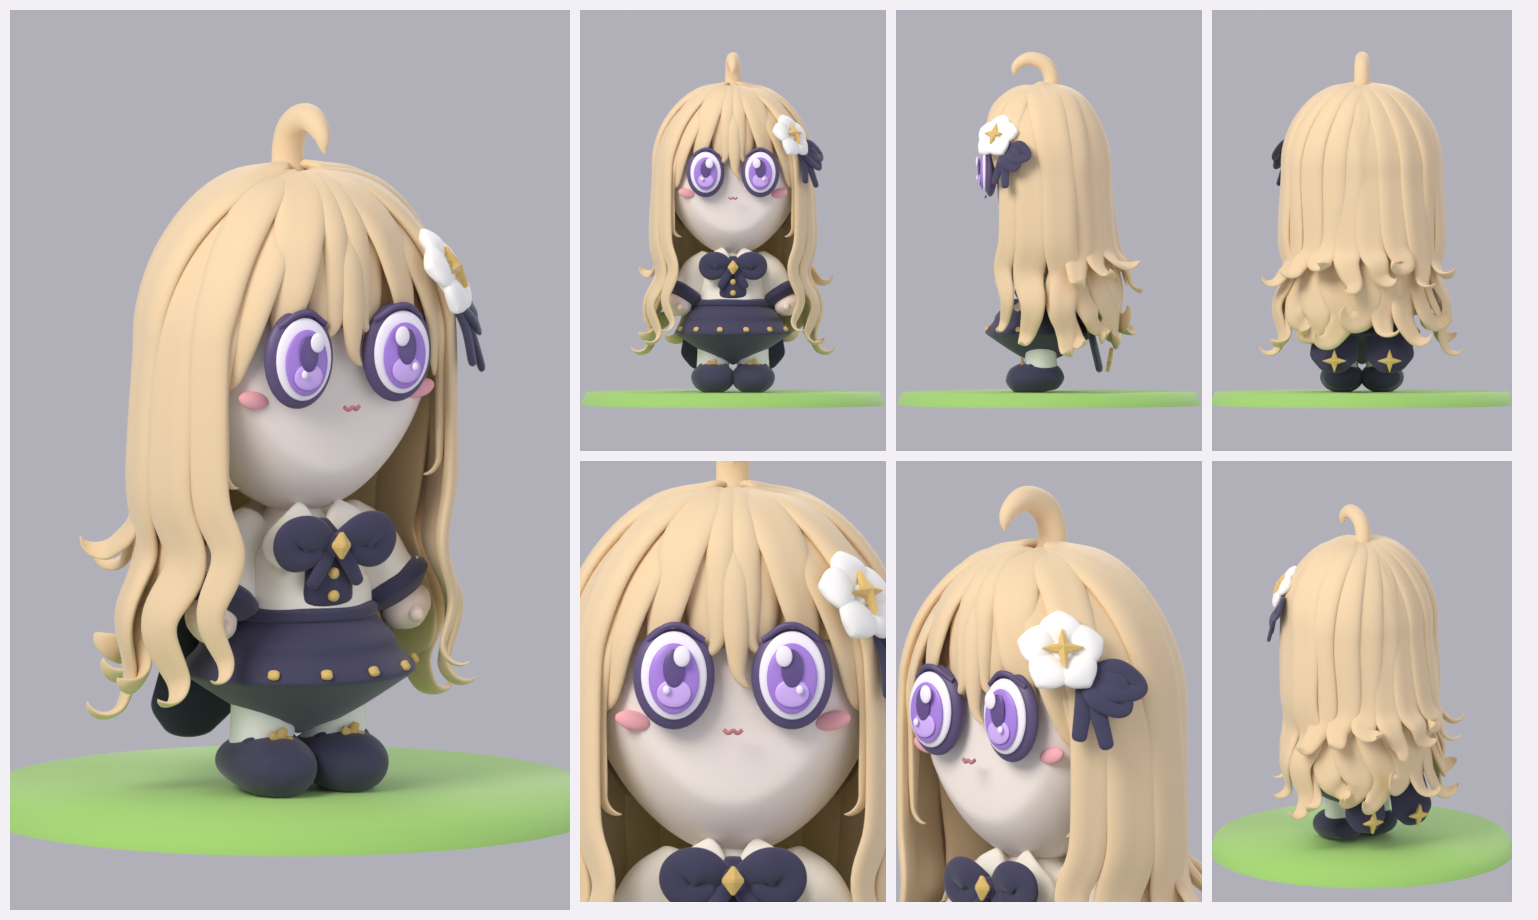
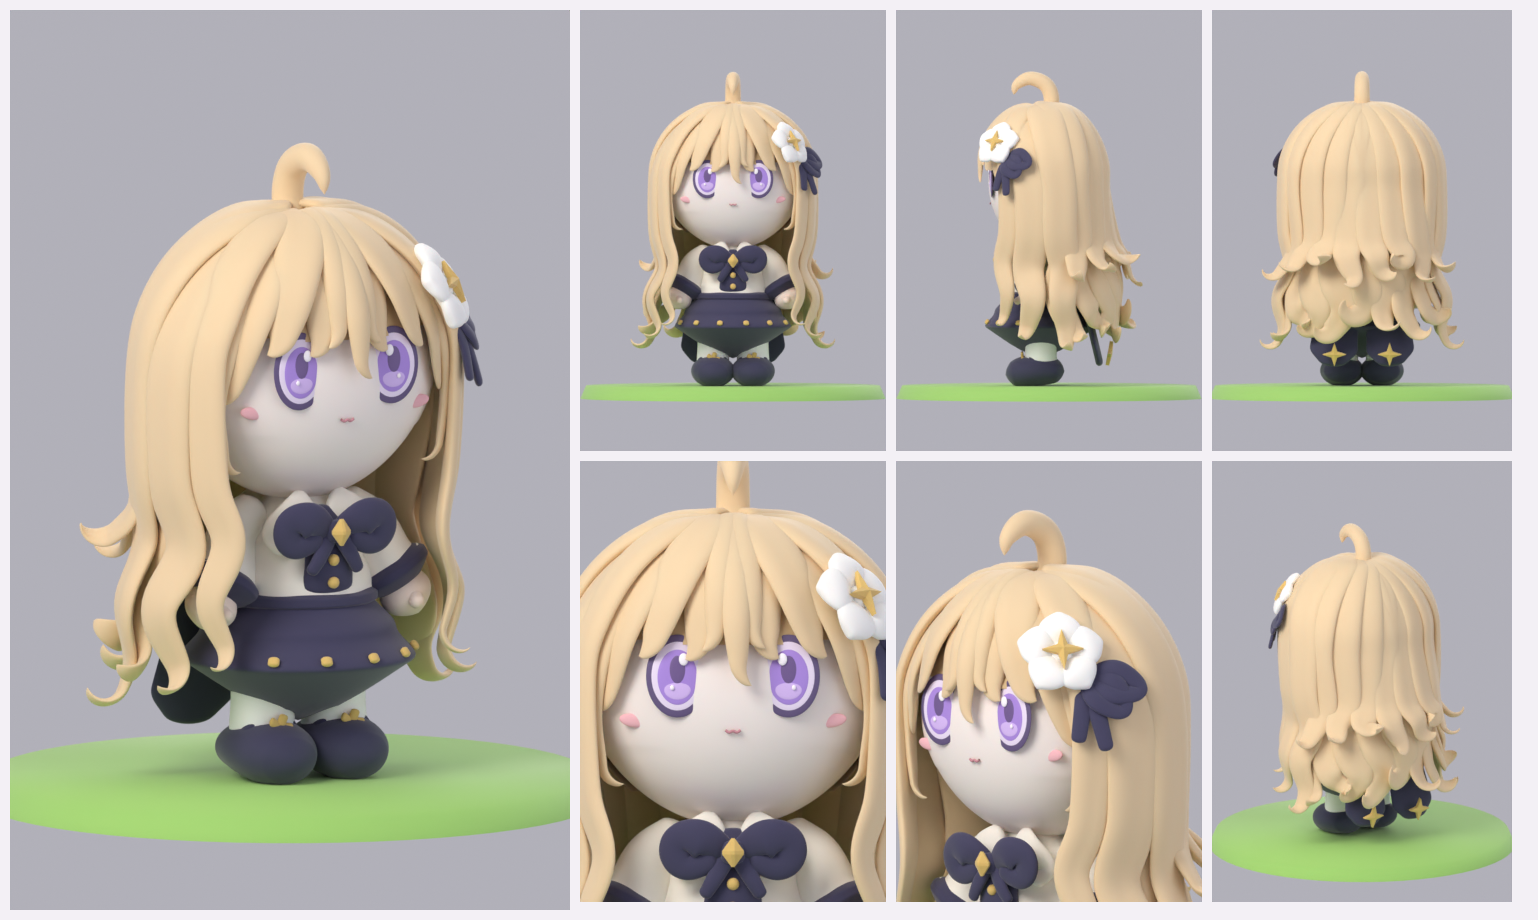
기준 두상을 사용자 제공 v2 스크립트로 교체, 헤어·의상 재결합
Claude-Session: https://claude.ai/code/session_013vYkAwcZjb4s3cxt5sEN9t

diff --git a/tools/3d/blender/head_base_v2.py b/tools/3d/blender/head_base_v2.py
@@ -1,0 +1,227 @@
+# Blender Python API — revised chibi clay head + face
+# Character faces toward -Y. Z is up.
+# This revision shortens the head, rounds the jaw, and embeds facial features
+# closer to the head surface to avoid the "eyes glued onto an egg" appearance.
+
+import bpy
+import math
+
+# ------------------------- PARAMETERS -------------------------
+HEAD_CENTER = (0.0, 0.0, 2.0)
+# Wider and shorter than v1: less egg-shaped, more chibi.
+HEAD_RADIUS = (0.86, 0.64, 0.82)
+HEAD_SEGMENTS = 128
+HEAD_RINGS = 96
+
+SKIN = (0.91, 0.83, 0.79, 1.0)
+DARK = (0.12, 0.085, 0.20, 1.0)
+EYE_BASE = (0.83, 0.73, 0.91, 1.0)
+IRIS = (0.40, 0.25, 0.72, 1.0)
+IRIS_LIGHT = (0.65, 0.48, 0.88, 1.0)
+PUPIL = (0.16, 0.10, 0.27, 1.0)
+WHITE = (0.98, 0.94, 1.0, 1.0)
+BLUSH = (0.88, 0.48, 0.52, 1.0)
+MOUTH = (0.55, 0.25, 0.29, 1.0)
+
+EYE_X = 0.315
+EYE_Z = 2.045
+EYE_W = 0.165
+EYE_H = 0.218
+# Very shallow depth: facial layers sit close to the skin.
+EYE_D = 0.026
+CHEEK_X = 0.565
+CHEEK_Z = 1.79
+
+# ------------------------- COLLECTION -------------------------
+COL_NAME = "CHIBI_HEAD_FACE_V2"
+col = bpy.data.collections.get(COL_NAME)
+if col is None:
+    col = bpy.data.collections.new(COL_NAME)
+    bpy.context.scene.collection.children.link(col)
+
+# Remove only objects from this script's collection, so rerunning is safe.
+for ob in list(col.objects):
+    bpy.data.objects.remove(ob, do_unlink=True)
+
+def move_to_col(obj):
+    for c in list(obj.users_collection):
+        c.objects.unlink(obj)
+    col.objects.link(obj)
+    return obj
+
+def material(name, color, roughness=0.8, subsurface=0.04):
+    mat = bpy.data.materials.get(name)
+    if mat is None:
+        mat = bpy.data.materials.new(name)
+    mat.diffuse_color = color
+    mat.use_nodes = True
+    bsdf = mat.node_tree.nodes.get("Principled BSDF")
+    bsdf.inputs["Base Color"].default_value = color
+    bsdf.inputs["Roughness"].default_value = roughness
+    if "Subsurface Weight" in bsdf.inputs:
+        bsdf.inputs["Subsurface Weight"].default_value = subsurface
+    return mat
+
+M_SKIN = material("V2_Clay_Skin", SKIN, 0.86, 0.07)
+M_DARK = material("V2_Eye_Deep_Plum", DARK, 0.58, 0.0)
+M_EYE = material("V2_Eye_Lavender", EYE_BASE, 0.52, 0.0)
+M_IRIS = material("V2_Iris_Purple", IRIS, 0.48, 0.0)
+M_IRIS_LIGHT = material("V2_Iris_Light", IRIS_LIGHT, 0.5, 0.0)
+M_PUPIL = material("V2_Pupil", PUPIL, 0.48, 0.0)
+M_WHITE = material("V2_Highlight", WHITE, 0.5, 0.0)
+M_BLUSH = material("V2_Blush", BLUSH, 0.9, 0.02)
+M_MOUTH = material("V2_Mouth", MOUTH, 0.82, 0.0)
+
+def uv_sphere(name, loc, scale, mat, seg=64, rings=40):
+    bpy.ops.mesh.primitive_uv_sphere_add(
+        segments=seg, ring_count=rings, radius=1.0, location=loc
+    )
+    ob = bpy.context.object
+    ob.name = name
+    ob.scale = scale
+    bpy.ops.object.transform_apply(location=False, rotation=False, scale=True)
+    for p in ob.data.polygons:
+        p.use_smooth = True
+    ob.data.materials.append(mat)
+    move_to_col(ob)
+    return ob
+
+def face_y(x, z):
+    # Ellipsoid front surface, with a slight allowance for the softened jaw.
+    rx, ry, rz = HEAD_RADIUS
+    cx, cy, cz = HEAD_CENTER
+    q = 1.0 - ((x-cx)/rx)**2 - ((z-cz)/rz)**2
+    return cy - ry * math.sqrt(max(0.08, q))
+
+def curve(name, points, bevel, mat):
+    data = bpy.data.curves.new(name, "CURVE")
+    data.dimensions = "3D"
+    data.resolution_u = 24
+    data.bevel_depth = bevel
+    data.bevel_resolution = 6
+    sp = data.splines.new("BEZIER")
+    sp.bezier_points.add(len(points)-1)
+    for bp, p in zip(sp.bezier_points, points):
+        bp.co = p
+        bp.handle_left_type = "AUTO"
+        bp.handle_right_type = "AUTO"
+    ob = bpy.data.objects.new(name, data)
+    col.objects.link(ob)
+    ob.data.materials.append(mat)
+    return ob
+
+# ------------------------- HEAD SHAPE -------------------------
+bpy.ops.mesh.primitive_uv_sphere_add(
+    segments=HEAD_SEGMENTS, ring_count=HEAD_RINGS,
+    radius=1.0, location=HEAD_CENTER
+)
+head = bpy.context.object
+head.name = "V2_HEAD_Rounded_Chibi"
+head.scale = HEAD_RADIUS
+bpy.ops.object.transform_apply(location=False, rotation=False, scale=True)
+
+# Subtle cheek fullness and a soft, rounded lower jaw.
+for v in head.data.vertices:
+    zn = v.co.z / HEAD_RADIUS[2]
+    xn = v.co.x / HEAD_RADIUS[0]
+    if zn < -0.12:
+        t = min(1.0, max(0.0, (-zn - 0.12) / 0.88))
+        v.co.x *= (1.0 - 0.10 * (t ** 1.4))
+    # Gently fuller cheek zone; no sharp jaw corner.
+    if -0.45 < zn < 0.12 and abs(xn) > 0.45:
+        v.co.x *= 1.015
+
+for p in head.data.polygons:
+    p.use_smooth = True
+head.data.materials.append(M_SKIN)
+move_to_col(head)
+
+# Small ears, set partly into the head (hair will cover most of them).
+for s, side in [(-1, "L"), (1, "R")]:
+    uv_sphere(
+        f"V2_Ear_{side}",
+        (s*0.815, -0.005, 1.91),
+        (0.075, 0.070, 0.115), M_SKIN, 48, 32
+    )
+
+# ------------------------- EYES -------------------------
+# Each eye is a shallow, layered oval, not a stack of deep protruding balls.
+for s, side in [(-1, "L"), (1, "R")]:
+    x, z = s*EYE_X, EYE_Z
+    y = face_y(x, z)
+
+    # Outer dark rim: mostly embedded in the face.
+    uv_sphere(
+        f"V2_Eye_{side}_Rim",
+        (x, y-0.006, z),
+        (EYE_W*1.08, EYE_D*0.72, EYE_H*1.08), M_DARK
+    )
+    # Soft lavender eye bed.
+    uv_sphere(
+        f"V2_Eye_{side}_Bed",
+        (x, y-0.014, z),
+        (EYE_W*0.91, EYE_D*0.52, EYE_H*0.91), M_EYE
+    )
+    # Iris.
+    uv_sphere(
+        f"V2_Eye_{side}_Iris",
+        (x, y-0.022, z-0.006),
+        (EYE_W*0.69, EYE_D*0.38, EYE_H*0.72), M_IRIS
+    )
+    # Lower iris gradient-like clay insert.
+    uv_sphere(
+        f"V2_Eye_{side}_Iris_Lower",
+        (x, y-0.027, z-0.075),
+        (EYE_W*0.46, EYE_D*0.23, EYE_H*0.27), M_IRIS_LIGHT
+    )
+    # Pupil.
+    uv_sphere(
+        f"V2_Eye_{side}_Pupil",
+        (x, y-0.030, z+0.035),
+        (EYE_W*0.27, EYE_D*0.22, EYE_H*0.37), M_PUPIL
+    )
+    # Small highlights, deliberately restrained.
+    uv_sphere(
+        f"V2_Eye_{side}_Highlight",
+        (x-s*0.035, y-0.039, z+0.095),
+        (0.027, 0.010, 0.035), M_WHITE, 32, 24
+    )
+    uv_sphere(
+        f"V2_Eye_{side}_Highlight_Small",
+        (x+s*0.030, y-0.038, z-0.065),
+        (0.012, 0.007, 0.015), M_WHITE, 24, 16
+    )
+
+# ------------------------- CHEEKS -------------------------
+for s, side in [(-1, "L"), (1, "R")]:
+    x, z = s*CHEEK_X, CHEEK_Z
+    y = face_y(x, z)
+    cheek = uv_sphere(
+        f"V2_Cheek_{side}",
+        (x, y-0.006, z),
+        (0.080, 0.018, 0.038), M_BLUSH, 48, 32
+    )
+    cheek.rotation_euler[1] = s * math.radians(-10)
+
+# ------------------------- TINY MOUTH -------------------------
+mz = 1.735
+my = face_y(0.0, mz) - 0.012
+curve(
+    "V2_Mouth_Soft_W",
+    [
+        (-0.043, my, mz+0.003),
+        (-0.022, my-0.002, mz-0.009),
+        (0.0, my-0.003, mz-0.001),
+        (0.022, my-0.002, mz-0.009),
+        (0.043, my, mz+0.003),
+    ],
+    0.008, M_MOUTH
+)
+
+# Front view camera-like viewport orientation is not changed.
+bpy.ops.object.select_all(action="DESELECT")
+head.select_set(True)
+bpy.context.view_layer.objects.active = head
+
+print("V2 chibi head + face created.")
+print("Front = -Y | Head radii =", HEAD_RADIUS)

diff --git a/tools/3d/blender/char.py b/tools/3d/blender/char.py
@@ -6,8 +6,8 @@ from math import sin,cos,pi,exp
 OUT=os.path.dirname(os.path.abspath(__file__));PART=os.environ.get('PART','all')
 bpy.ops.wm.read_factory_settings(use_empty=True);sc=bpy.context.scene;col=sc.collection
 # ===== 1) user's head/face script, executed unmodified =====
-exec(compile(open(os.path.join(OUT,'head_base.py')).read(),'head_base.py','exec'),{'__name__':'__main__'})
-head=bpy.data.objects['HEAD_Smooth_Rounded_Base'];HC=Vector(head.location);bpy.context.view_layer.update()
+exec(compile(open(os.path.join(OUT,'head_base_v2.py')).read(),'head_base_v2.py','exec'),{'__name__':'__main__'})
+head=bpy.data.objects['V2_HEAD_Rounded_Chibi'];HC=Vector(head.location);bpy.context.view_layer.update()
 HV=[head.matrix_world@v.co for v in head.data.vertices];bvh=BVHTree.FromPolygons(HV,[tuple(p.vertices) for p in head.data.polygons])
 U=3.3
 def SK(az,ph,off=0):
@@ -17,11 +17,11 @@ HEADONLY=PART=='head0'
 src=open(os.path.join(OUT,'hero.py')).read();cut=lambda a,b:src[src.index(a):src.index(b)]
 NS=dict(bpy=bpy,bmesh=bmesh,math=math,Vector=Vector,sin=sin,cos=cos,pi=pi,col=col,sc=sc,Q='draft')
 exec(cut('# ---------------- materials','# ---------------- proportions'),NS)
-SB=3.6;BZ=1.07-.48*SB
+SB=3.6;NK=1.23;BZ=NK-.48*SB
 if PART=='all':
     before=set(bpy.data.objects);exec(cut('# ---------------- body','# ---------------- hair'),NS)
     for o in set(bpy.data.objects)-before:o.scale=(SB,SB,SB);o.location=(0,0,BZ)
-TK=lambda x,y,z:Vector((x*3.1,y*3.1,1.07+(z-.48)*SB))
+TK=lambda x,y,z:Vector((x*3.1,y*3.1,NK+(z-.48)*SB))
 # ===== 3) hair: Bezier centre lines cast onto the real head mesh, lens section, tapered, curled tips =====
 mk=NS['mk'];M=NS['M'];M['hair']=NS['clay']('hair2','#e6cba2');M['hairb']=NS['clay']('hairb','#d6b98c')
 def bez(K,res=12):
